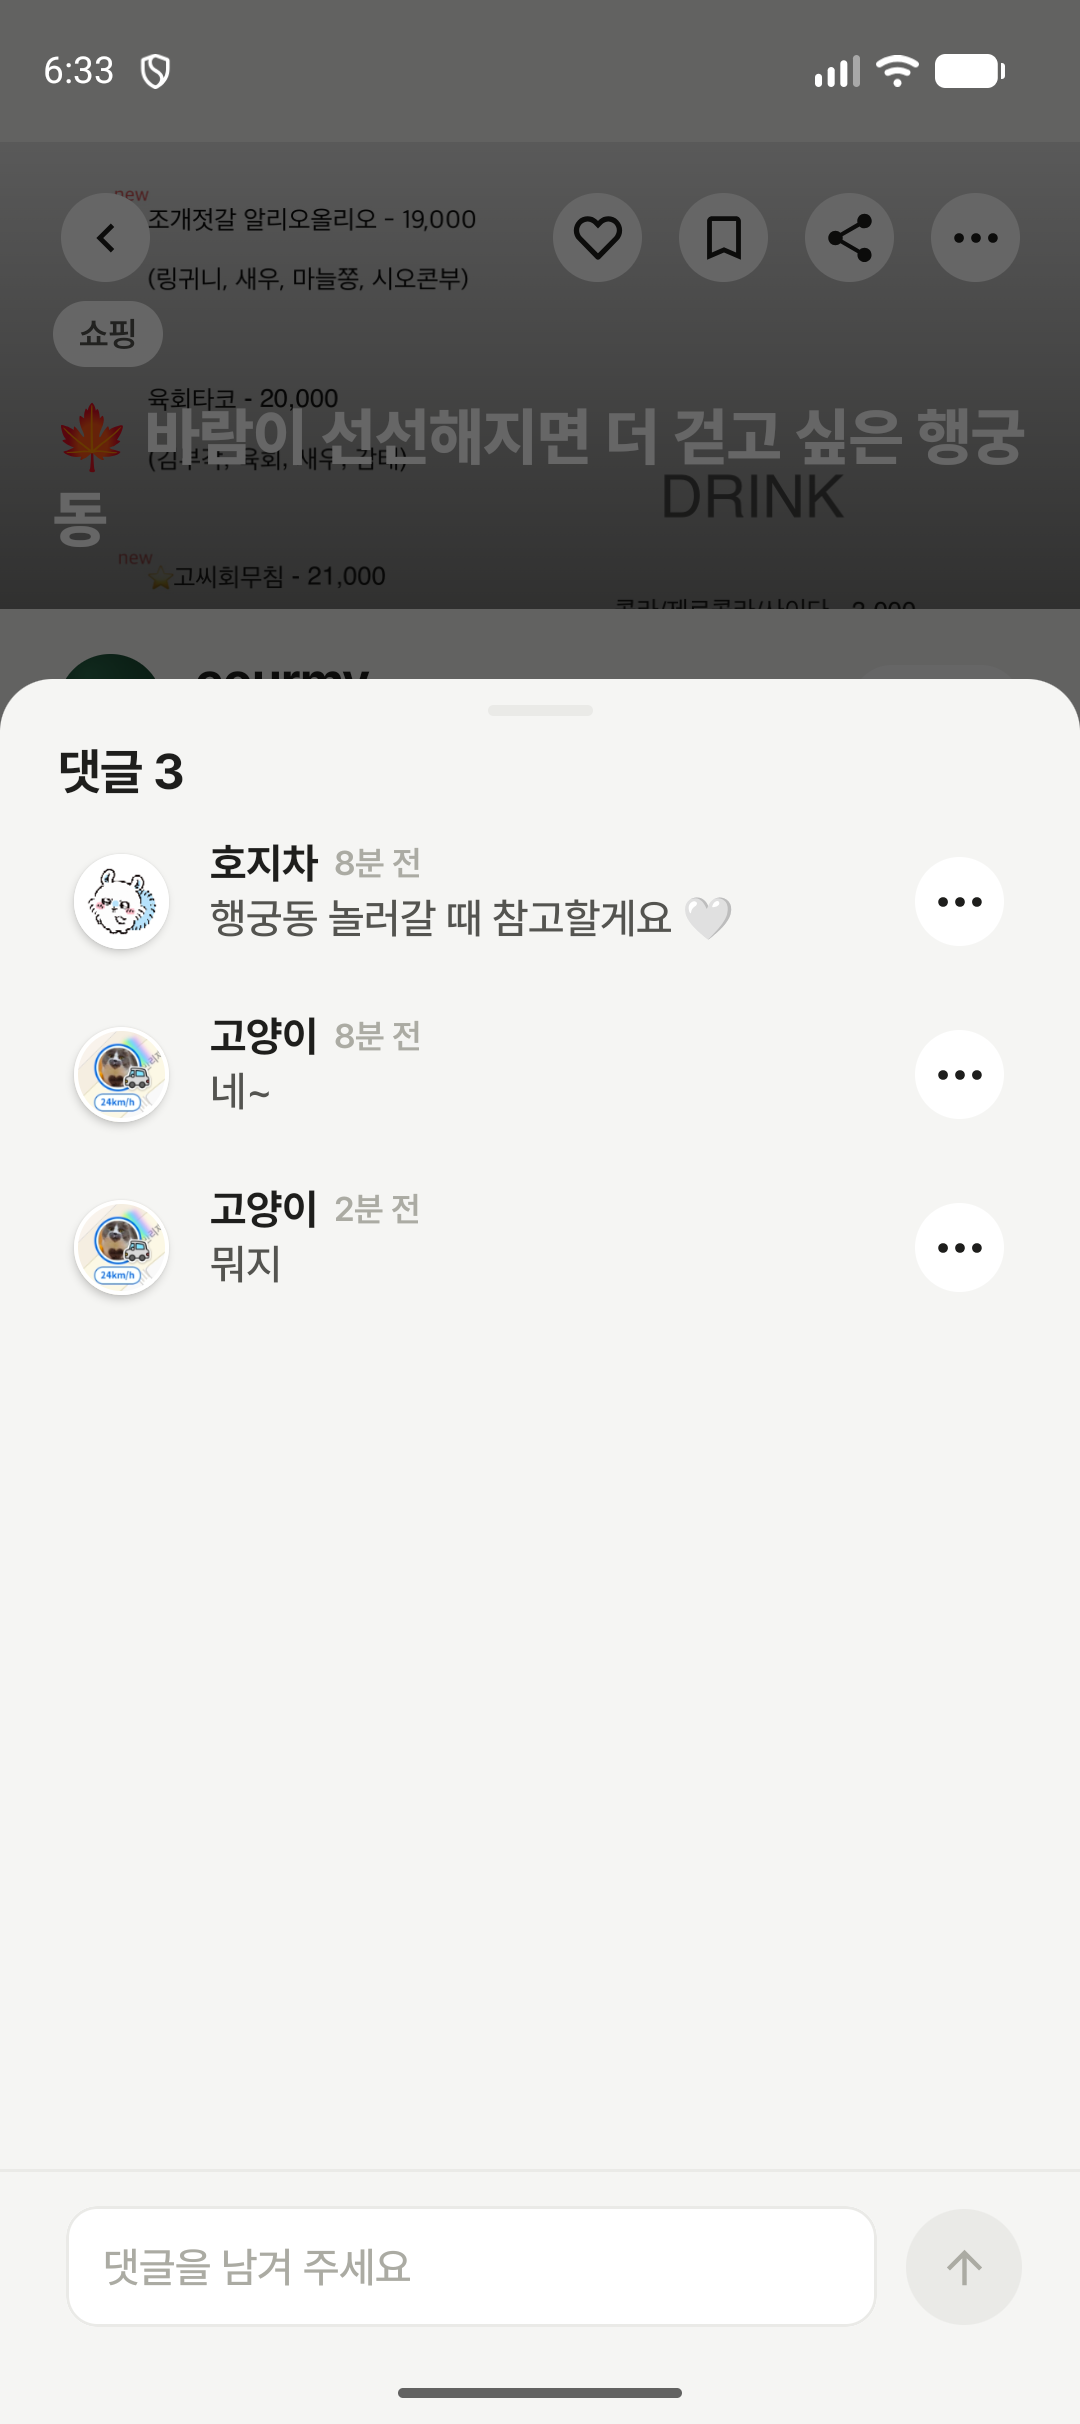
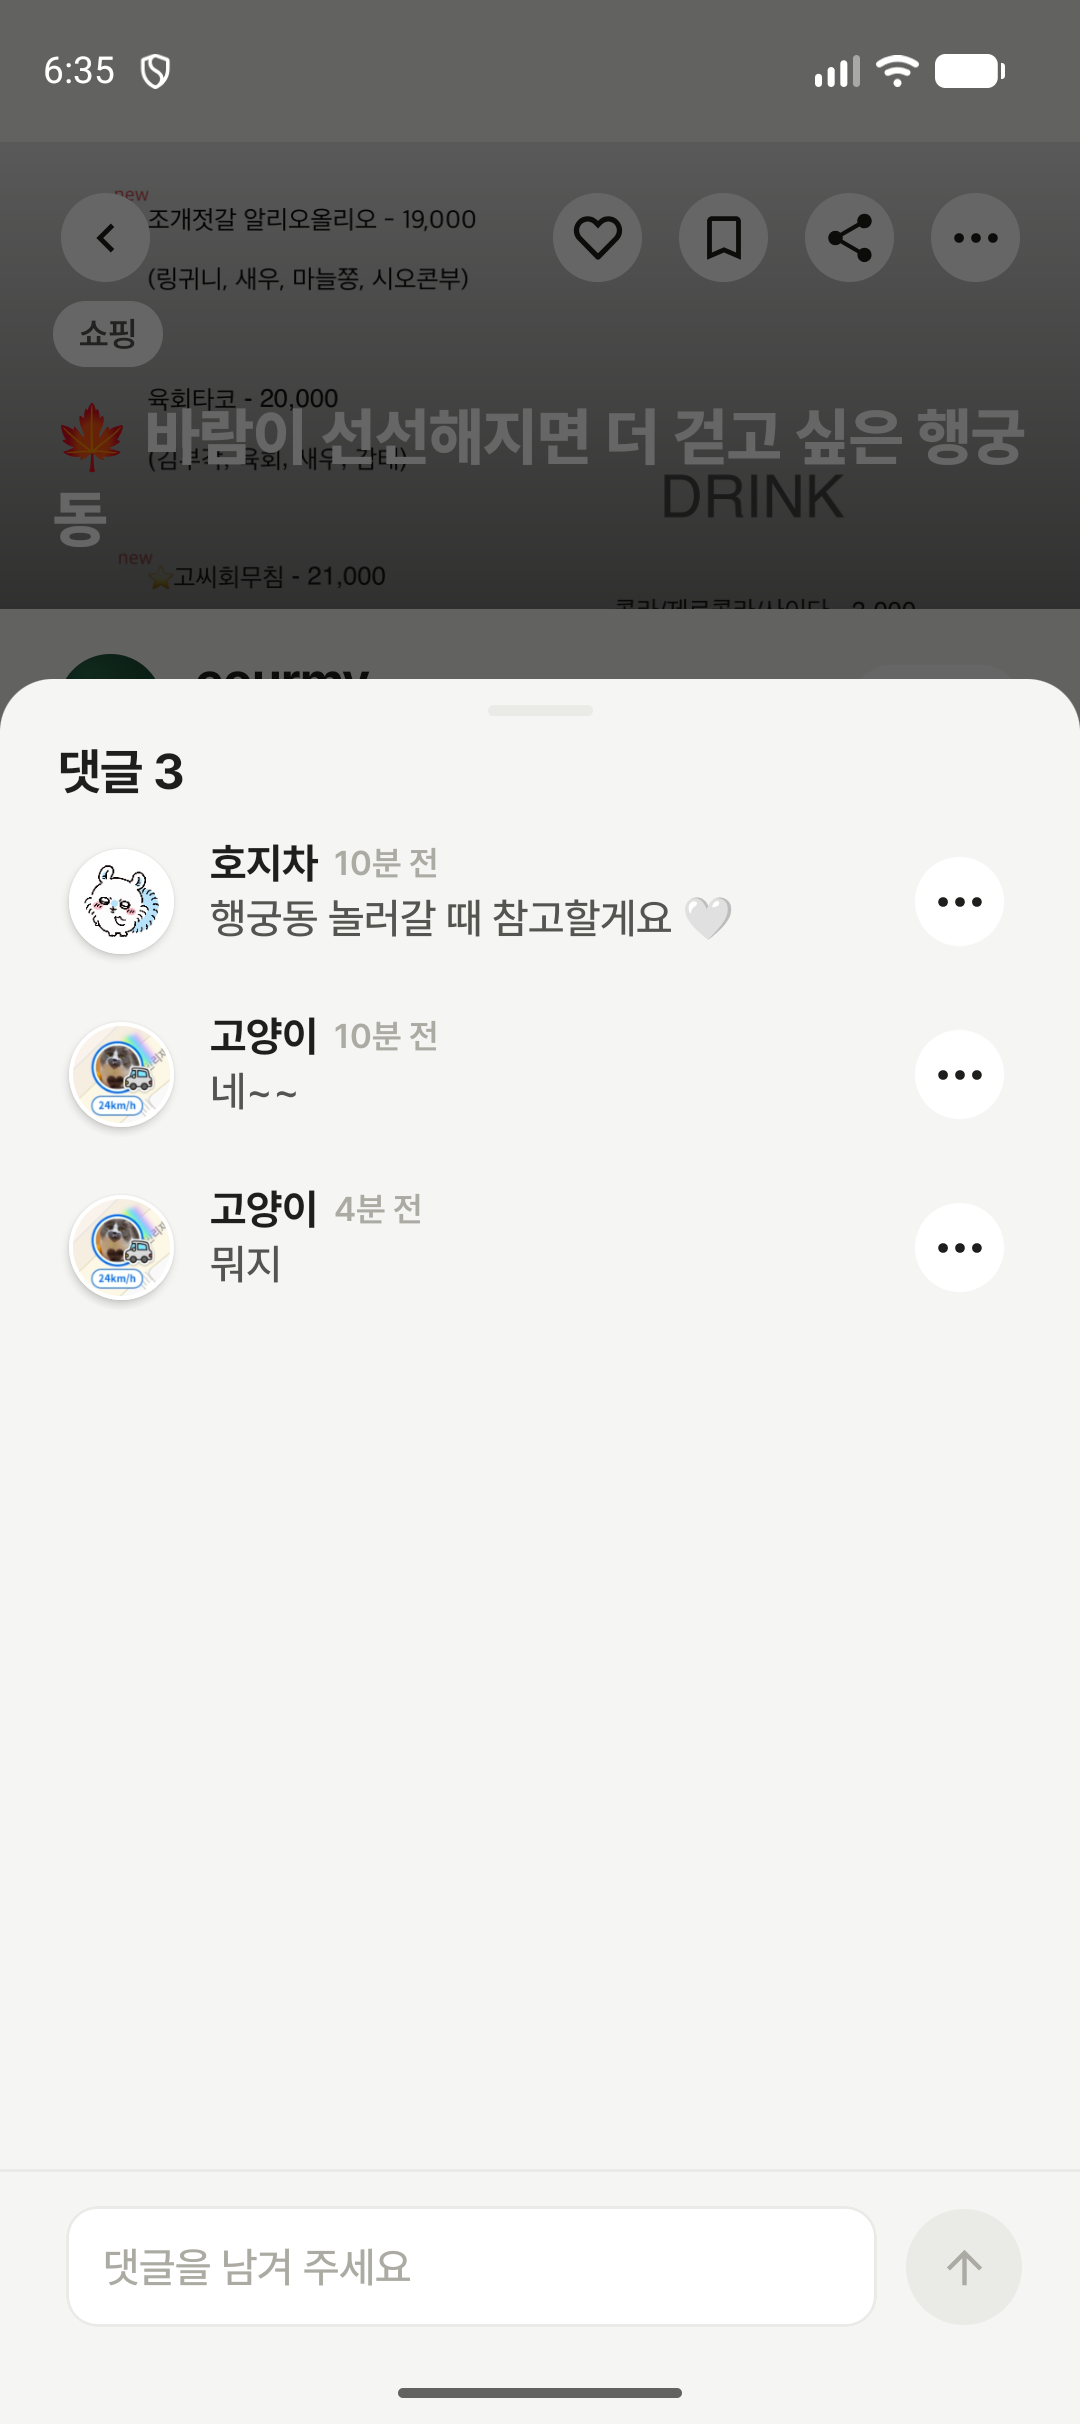
fix(course): 댓글 프로필 이미지 크기 확대

diff --git a/course/presentation/src/main/java/com/chillsam/courmy/course/presentation/CourseSocialSection.kt b/course/presentation/src/main/java/com/chillsam/courmy/course/presentation/CourseSocialSection.kt
@@ -87,7 +87,7 @@ private const val DISMISS_DRAG_FRACTION = 0.2f
 private const val SHEET_ANIM_MS = 220
 
 /** 댓글 작성자 아바타 크기. */
-private val COMMENT_AVATAR_SIZE = 36.dp
+private val COMMENT_AVATAR_SIZE = 40.dp
 
 /** 하단 입력줄의 원형 등록 버튼. 입력창 높이와 비슷해야 한 줄로 읽힌다. */
 private val SUBMIT_BUTTON_SIZE = 44.dp

diff --git a/docs/ui/2026-11-03-comment-profile/README.md b/docs/ui/2026-11-03-comment-profile/README.md
@@ -1,7 +1,7 @@
 # 댓글 작성자 프로필 연동
 
 - 브랜치: `fix/SCRUM-709-comment-author-profile`
-- 작성자 ID/`나` 대신 서버 `authorNickname`을 표시하고 `authorProfileImageUrl`을 36dp 원형 이미지에 연결한다. 누락/null은 `알 수 없는 사용자`와 기본 사람 아이콘이다. 긴 닉네임은 한 줄 말줄임으로 날짜를 보호한다.
+- 작성자 ID/`나` 대신 서버 `authorNickname`을 표시하고 `authorProfileImageUrl`을 40dp 원형 이미지에 연결한다. 누락/null은 `알 수 없는 사용자`와 기본 사람 아이콘이다. 긴 닉네임은 한 줄 말줄임으로 날짜를 보호한다.
 - 프로필 이미지는 1.5dp 흰색(`bgDefaultLevel1`) 원형 테두리와 2dp 그림자로 배경에서 분리한다.
 - 본인/타인 더보기 버튼은 모두 48dp 터치 영역, 34dp 원형 배경(`bgDefaultLevel1`), 22dp 가로 점 3개(`contentDefaultLevel0`)로 통일한다. 본인 메뉴는 수정·삭제, 타인 메뉴는 신고하기를 유지한다.
 - 이미지 버튼은 48dp다. 내 댓글은 시트를 닫고 마이페이지로 이동한다. 타인 댓글은 `authorHandle`이 제공된 경우에만 시트를 닫고 기존 타인 프로필 라우트로 이동한다. handle이 없는 타인 이미지는 비활성이다.
